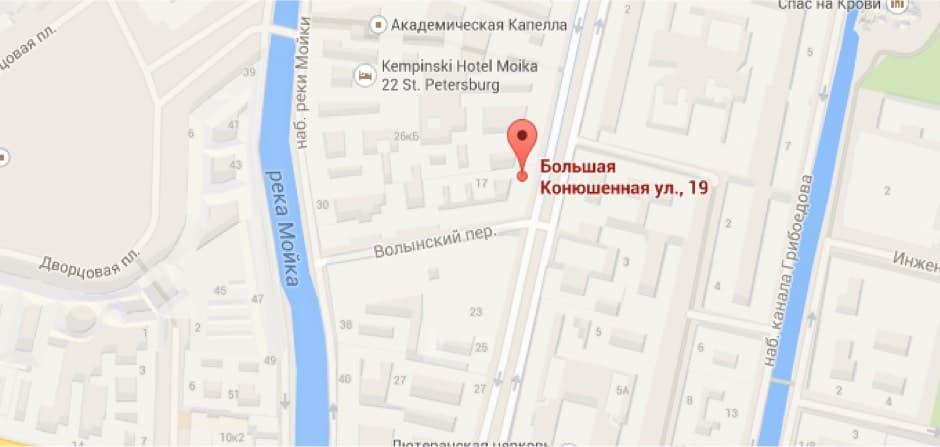
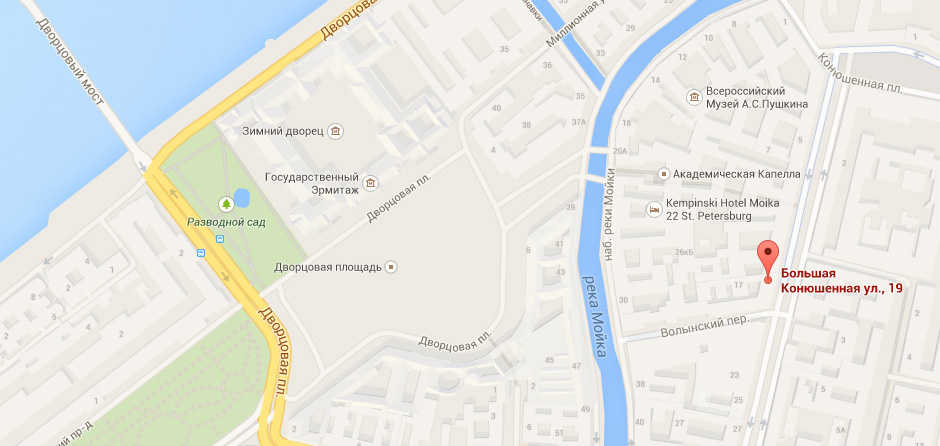
попап карты

diff --git a/index.html b/index.html
@@ -313,7 +313,7 @@
           <p class="output__main-text output__pickup">Вы можете забрать товар сами, заехав в наш офис:</p>
           <a class="output__image-link" href="#">
             <img class="output__image" src="img/map.jpg" alt="г.Санкт-Петербург, ул.Большая конюшенная, д.19/8" width="300" height="158">
-          </a>
+          </a> 
           <a class="button output__button-write" href="#">Заблудились? Напишите нам!</a>
         </section>
       </div>
@@ -405,6 +405,10 @@
         <button class="write-us__button button" type="submit">Отправить</button>
       </div>
     </form>
+  </div>
+  <div class="big-map">
+    <img src="img/big-map.jpg" alt="Большая Конюшенная, 19/8" width="940" height="460">
+    <button class="modal__exit big-map__exit" type="button" aria-label="Exit"></button>
   </div>
   <!--Сюда скрипты подключать-->
 </body>

diff --git a/css/style.css b/css/style.css
@@ -2391,7 +2391,6 @@ p.output__second-text {
 	margin-bottom: 27px;
 }
 
-.services__slide--delivery,
 .services__slide--warranty,
 .services__slide--credit {
 	display: none;
@@ -2434,6 +2433,19 @@ p.output__second-text {
     display: inline-block;
     vertical-align: top;
     padding-top: 10px;
+}
+
+.big-map {
+	position: fixed;
+	left: 50%;
+	margin-left: -470px;
+	bottom: 150px;
+
+	display: none;
+}
+
+.big-map__exit {
+	background-color: transparent;
 }
 
 /*временные стили*/
